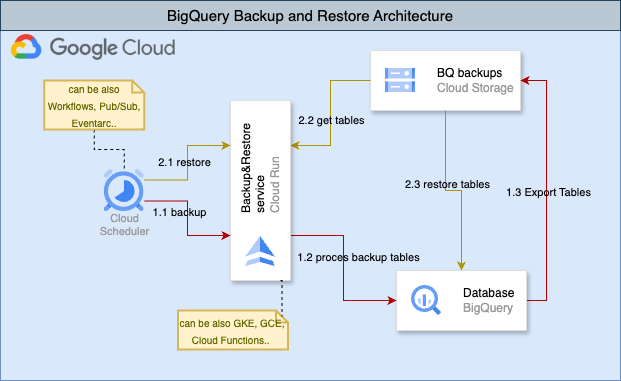
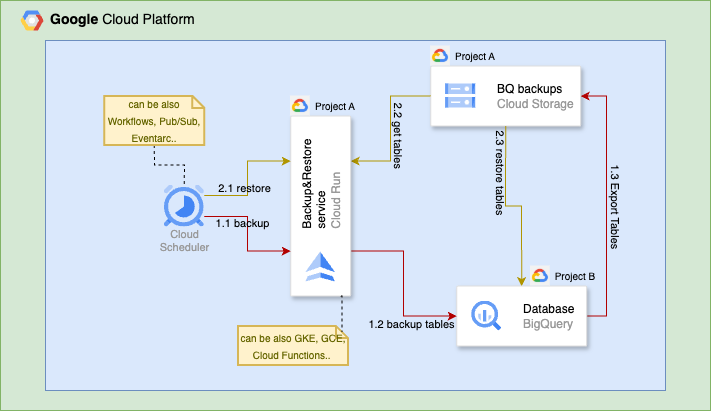
Adding setup guide and updated diagram with gcp projects

diff --git a/doc/setup-guide.md b/doc/setup-guide.md
@@ -1,0 +1,83 @@
+# Project Setup Guide
+
+## Overview
+
+A step-by-step guide for setting up the BigQuery Backup & Restore Automation project infrastructure and deployment pipeline.
+
+## Prerequisites
+
+- Google Cloud Platform account with billing enabled
+- GitHub account with repository admin access
+- Terraform Enterprise account
+
+## Setup Steps
+
+### 1. Google Cloud Platform Setup
+
+1. Create a new GCP project (e.g., `bigquery-automation-454819`)
+2. Create a service account for Terraform with necessary roles:
+    - Name: `terraform-enterprise-sa@bigquery-automation-454819.iam.gserviceaccount.com`
+    - Generate and download a JSON key for this service account
+
+### 2. Terraform Configuration
+
+1. Create a Terraform Enterprise workspace named `bigquery-backup-restore-service`
+2. Configure the workspace:
+    - Working Directory: `/infrastructure/terraform`
+    - Trigger Patterns: `/infrastructure/terraform/**/*`
+    - Enable "Automatic speculative plans", this will send terraform plan to Pull requests which changes infra code.
+3. Add the service account key as `var.google_credentials` in the Terraform workspace
+4. For local development, store the key at a secure location and reference it in `terraform.local.auto.tfvars`. Current setting for me is something like this
+   ```terraform
+    google_credentials = "/path/to/your/key/location/key.json"
+   ```
+   
+### 3. GitHub Repository Setup
+
+1. Push code to the main branch of your repository (e.g., `https://github.com/username/bigquery-backup-restore-service`)
+2. Create repository secrets:
+    - `GCP_SA_KEY`: The contents of the Terraform service account key
+    - `GH_PACKAGES_TOKEN`: GitHub Personal Access Token with 'write' permission for packages
+3. Add repository variables for GitHub Actions:
+    - `ARTIFACT_REGISTRY_LOCATION`: Your preferred GCP region (e.g., `europe-west3`)
+    - `ARTIFACT_REPOSITORY`: Container repository name (e.g., `bigquery-service-repo`)
+    - `GCP_PROJECT_ID`: Your GCP project ID (e.g., `bigquery-automation-454819`)
+
+### 4. Project Configuration
+
+1. Update `infrastructure/terraform/locals.tf` with your specific values:
+    - `project_id`: Your GCP project ID
+    - `region`: Your preferred GCP region
+    - `backup_bucket_name`: Your GCS bucket name for backups, it has to be unique
+2. Update all sample request JSON files in `scripts/examples/` to match your environment
+3. Update scheduler message bodies to reference correct GCP projects and resources
+
+### 5. Infrastructure Deployment
+
+1. Run your first Terraform Enterprise deployment (note: Cloud Run and scheduler will fail initially)
+2. Run the GitHub Actions CI/CD workflow on the main branch to build and deploy the application
+3. Run Terraform Enterprise again to complete the Cloud Run and scheduler setup
+
+### 6. BigQuery Test Data Setup
+
+1. Connect to the target GCP project containing BigQuery
+2. Set your default BigQuery location (e.g., `europe-west3` in query settings)
+3. Run the `scripts/setup/bigquery_dummy_data.sql` script to create test datasets and tables
+
+### 7. IAM Permissions Setup
+
+1. Grant the Cloud Run service account the following permissions in target GCP project which has Bigquery Database:
+    - `roles/bigquery.user` at the project level in target gcp project
+    - `roles/bigquery.dataEditor` on relevant either datasets or project level in target gcp project
+    - `roles/storage.admin` on gcp bucket 
+   
+   In my case I have provided all those access for `backup-restore-sa@bigquery-automation-454819.iam.gserviceaccount.com`
+
+### 8. Testing the Deployment
+
+1. Update `CLOUD_RUN_BASE_URL` in `scripts/action.sh` to your deployed Cloud Run service URL
+2. Run backup operation: `./scripts/action.sh backup ./scripts/examples/backup_request.json DEBUG`
+3. Run restore operation: `./scripts/action.sh restore ./scripts/examples/restore_request.json`
+4. Test Cloud Scheduler triggers:
+    - `trigger-bigquery-backup`
+    - `trigger-restore-backup`

diff --git a/README.md b/README.md
@@ -10,7 +10,7 @@
 I built this open source solution to automate BigQuery backups and restores. It handles multiple formats, supports threading for better performance and scales well. You can backup entire datasets or specific tables export to common formats like Avro, CSV, Parquet or JSON and restore data exactly when you need it
 ## Architecture Overview
 
-![BigQuery Backup and Restore Architecture](doc/bigquery-backup-and-restore-diagram.png)
+![BigQuery Backup and Restore Architecture](./doc/bigquery-backup-and-restore-diagram.png)
 
 ### How It Works
 
@@ -158,7 +158,14 @@ Although there are a lot more choices in request JSON files, I only use the mini
    # Run the restore
    ./scripts/action.sh restore ./scripts/examples/restore_request_minimal.json DEBUG
    ```
-   
+
+## Documentation
+
+For detailed information about the application, please see:
+- [Configuration Guide](./doc/api-doc.md) - Detailed explanation of all JSON fields and Application logic
+- [Project Setup Details](./doc/setup-guide.md) - How This is project was set up. This is rather for repo maintainers but you are welcome to read if you want to understand how I have configured it.
+
+
 ## Contributing
 
 We welcome your contributions! Please take a look at our [contribution guidelines](CONTRIBUTING.md) first.

diff --git a/doc/api-doc.md b/doc/api-doc.md
@@ -125,6 +125,13 @@ The service exposes two main REST endpoints:
 
 ## Business Logic
 
+### GCP Permissions
+
+Service account of your GCP container runner (in my case cloud run) should have this permissions/roles in target GCP project which is holding bigquery database:
+
+   - `roles/bigquery.dataEditor` (on project level or dataset level) and `roles/bigquery.user`.
+   - for gcs bucket we need `storage.buckets.get,storage.objects.list,storage.objects.create` if you have custom role you can use it, if not the only role which has all those permissions is `roles/storage.admin`
+
 ### Backup Process
 
 1. **Dataset Discovery**: If no specific tables are provided, the service discovers all datasets in the project (excluding the snapshot dataset).
